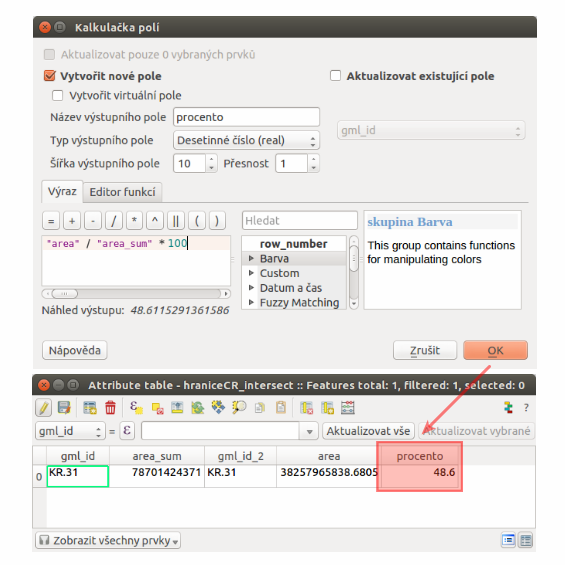
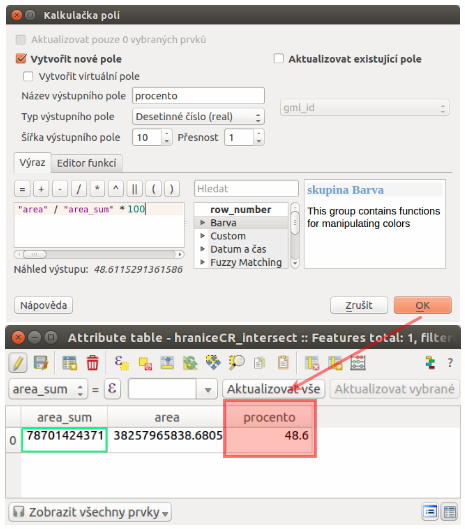
removing attributes removed + some amendments

diff --git a/ruzne/ukoly.rst b/ruzne/ukoly.rst
@@ -35,7 +35,6 @@
 .. |clipper| image:: ../images/icon/clip.png
    :width: 1.5em
 
-
 Úkoly
 -----
 
@@ -53,9 +52,10 @@ Dáta:
 Riešenie:
 ^^^^^^^^^
 1. Nástrojom *Buffer* vytvoríme obalovú zónu 100 km okolo Prahy.
-2. Nástrojom *Dissolve* zlúčime prvky triedy, t.j. vytvoríme triedu hranice ČR.
-3. Nástrojom *Intersect* vytvoríme prienik vrstiev.
-4. V novom atribútovom poli vypočítame percentá vybranej plochy k sume pôvodnej. 
+2. Nástrojom *Dissolve* zlúčime kraje a vytvoríme vrstvu hranice ČR.
+3. Vypočítame plochu ČR.
+4. Nástrojom *Intersect* vytvoríme prienik obalovej zóny s hranicou ČR.
+5. Vypočítame plochu prieniku a percentá vybranej plochy k sume pôvodnej. 
 
 Postup v programovom prostredí QGIS
 ^^^^^^^^^^^^^^^^^^^^^^^^^^^^^^^^^^^
@@ -81,6 +81,10 @@ do mapového okna pridáme vrstvu :map:`kraje.shp`. Tlačidlom |mActionSelect|
 :sup:`Vybrat prvky oblastí nebo jednoklikem` klikneme do mapy na miesto, 
 kde sa nachádza kraj Praha (:num:`#u-select-praha`).
 
+.. note:: V prípade, že by išlo o zložitejší výber, použijeme 
+	  |mIconExpressionSelect| :sup:`Vybrat prvky pomocí vzorce` a prvky 
+	  vyberieme atribútovým dotazom.
+
 .. _u-select-praha:
 
 .. figure:: images/u-select-praha.png
@@ -105,7 +109,7 @@ a povolíme |box_yes| :sup:`Přidat výsledek do mapového okna` a potvrdíme ``
 .. _u-p100km:
 
 .. figure:: images/u-p100km.png
-   :scale: 50%
+   :scale: 70%
         
    Tvorba obalovej zóny veľkosti 100 km okolo hraníc Prahy.
 
@@ -131,17 +135,13 @@ vektorovú vrstvu nazveme :map:`hraniceCR`. Dialógové okno je na
 .. _u-dissolve:
 
 .. figure:: images/u-dissolve.png
-   :scale: 55%
+   :scale: 70%
         
    Spojenie všetkých krajov do jedného polygónu pomocou nástroja *Dissolve*.
 
 Otvoríme atribútovú tabuľku vrstvy :map:`hraniceCR` (pravým ``Otevřít 
-atributovou tabulku``) a kvôli prehľadnosti vymažeme 
-všetky stĺpce okrem prvého tak, že najprv zapneme editovací mód kliknutím na 
-|mIconEditable| :sup:`Prepnout režim editaci`, potom zvolíme 
-|mActionDeleteAttribute| :sup:`Smazat sloupec` a označíme názvy tých atribútov, 
-ktoré chceme vymazať. Potom použijeme kalkulačku polí, t.j. ikona v hornej lište
-atibútovej tabuľky |mActionCalculateField| :sup:`Otevřít kalkulátor polí`. 
+atributovou tabulku``) a  potom použijeme kalkulačku polí, t.j. ikona v hornej 
+lište atibútovej tabuľky |mActionCalculateField| :sup:`Otevřít kalkulátor polí`. 
 Vytvoríme nové pole s názvom :dbcolumn:`area_sum` (ako desatinné číslo), 
 do ktorého vložíme hodnotu plochy polygónu. Typ výstupného poľa nastavíme teda 
 ako ``real``, šírku napr. ``15`` a ako výraz napíšeme ``$area`` (:num:`#u-area`).
@@ -159,7 +159,6 @@ stlačením |mIconEditable|.
         
    Vytvorenie atribútu s výmerou Českej republiky.
 
-Nepotrebné stĺpce vymažeme aj vo vrstve :map:`P100km`.
 Potom použijeme nástroj |intersect| :sup:`Průsečník`, kde vstupom budú 
 vrstvy :map:`hraniceCR` a :map:`P100km`. Výsledok je na :num:`#intersect-map`.
 
@@ -174,10 +173,19 @@ vrstvy :map:`hraniceCR` a :map:`P100km`. Výsledok je na :num:`#intersect-map`.
 Posledným krokom je určenie percentuálneho zastúpenia plochy republiky
 do 100 km od Prahy. Najprv vypočítame plochu prieniku :map:`hraniceCR_intersect`,
 pričom postupujeme podobne ako pri ploche vrstvy :map:`hraniceCR` (vytvoríme
-stĺpec s názvom :dbcolumn:`area`). Potom pridáme nový atribút 
-:dbcolumn:`procento`, do ktorého pomocou mapovej kalkulačky vložíme 
-výsledok ``"area"/"area_sum * 100"``. Ten je na :num:`#vysledok-u1` (48,6% 
-územia Českej republiky je vo vzdialenosti do 100 km od hraníc Prahy).
+stĺpec s názvom :dbcolumn:`area`). 
+
+.. tip:: Kvôli prehľadnosti vymažeme všetky nepotrebné stĺpce v atribútovej 
+	 tabuľke vrstvy :map:`hraniceCR_intersect` tak, že najprv zapneme 
+	 editovací mód kliknutím na |mIconEditable| :sup:`Prepnout režim 
+	 editaci`, potom zvolíme |mActionDeleteAttribute| :sup:`Smazat sloupec` 
+	 a označíme názvy tých atribútov, ktoré chceme vymazať. Ostanú len 
+	 polia :dbcolumn:`area_sum` a :dbcolumn:`area`.
+
+Potom pridáme nový atribút :dbcolumn:`procento`, do ktorého pomocou mapovej 
+kalkulačky vložíme výsledok ``"area"/"area_sum * 100"``. Ten je na 
+:num:`#vysledok-u1` (48,6% územia Českej republiky je vo vzdialenosti do 100 km 
+od hraníc Prahy).
 
 .. _vysledok-u1:
 
